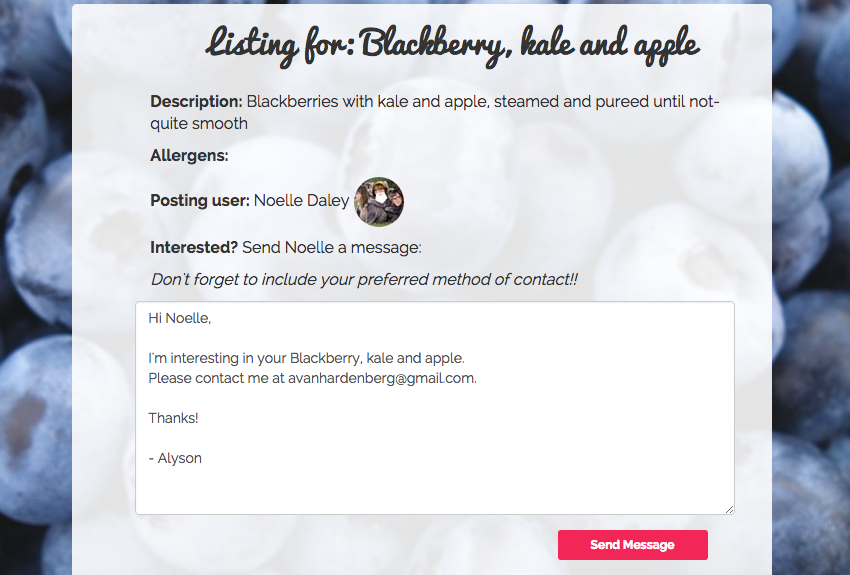
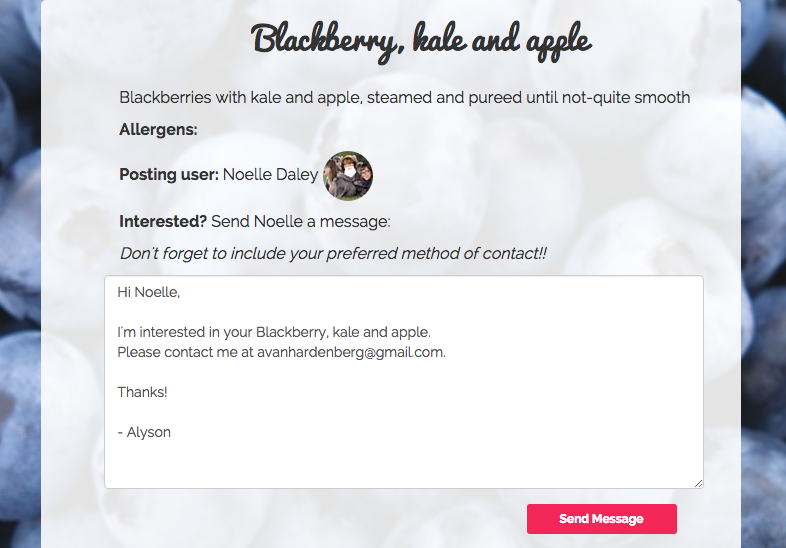
readme updated

Changed region(s): [[0.0, 0.0, 1.0, 1.0], [0.1221, 0.7445, 0.3664, 0.8996], [0.4885, 0.8686, 0.5496, 0.8996]]

diff --git a/templates/food_info.html b/templates/food_info.html
@@ -5,12 +5,12 @@
 	<div class="row">
 		<div class="container" id="foodInfo">
 			<div class="col-sm-8">
-			<center><h3>Listing for: {{ food_listing.title }}</h3></center>
+			<center><h3>{{ food_listing.title }}</h3></center>
 			<br>
 			<div class="row">
 				<div class="col-sm-1"></div>
 				<div class="col-sm-10">
-					<p><b>Description:</b> {{ food_listing.description }}</p>
+					<p>{{ food_listing.description }}</p>
 				</div>
 				<div class="col-sm-1"></div>
 			</div>
@@ -75,7 +75,7 @@
 						<input type='hidden' name='food_listing' value='{{ food_listing.food_id }}'>
 						<textarea id="interestedMessage" class="form-control col-sm-6" name='message' rows='10' cols='40'>Hi {{ food_listing.user.fname }},
 
-I'm interesting in your {{ food_listing.title }}.
+I'm interested in your {{ food_listing.title }}.
 Please contact me at {{ user.email }}.
 
 Thanks!
